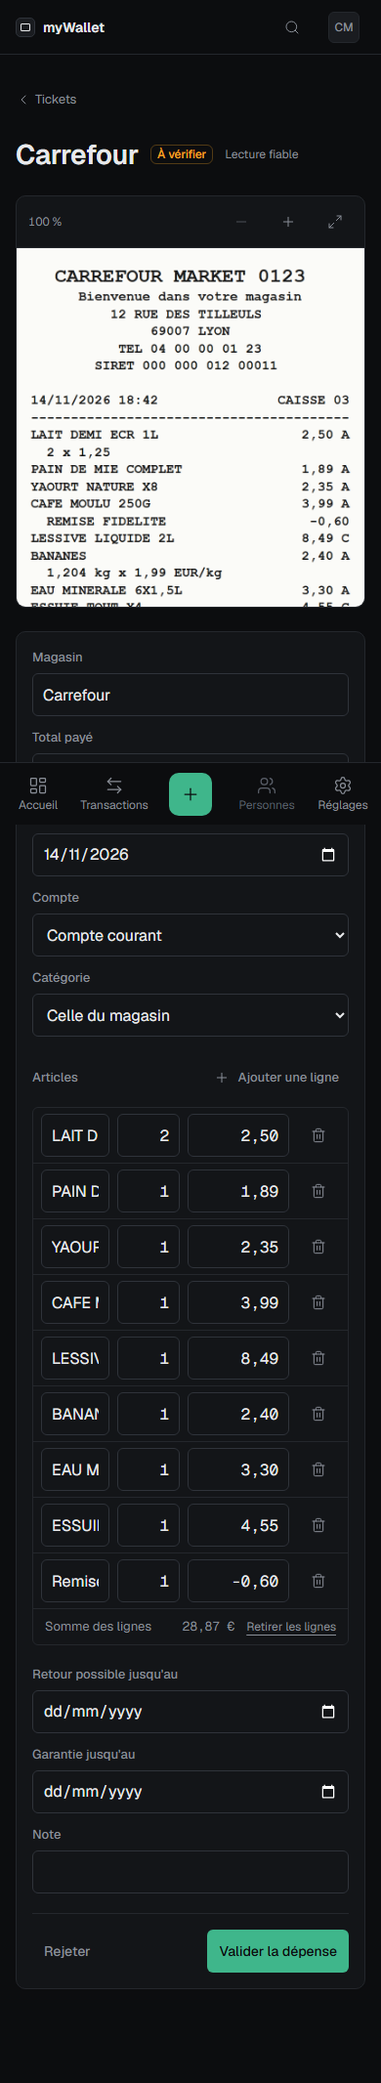
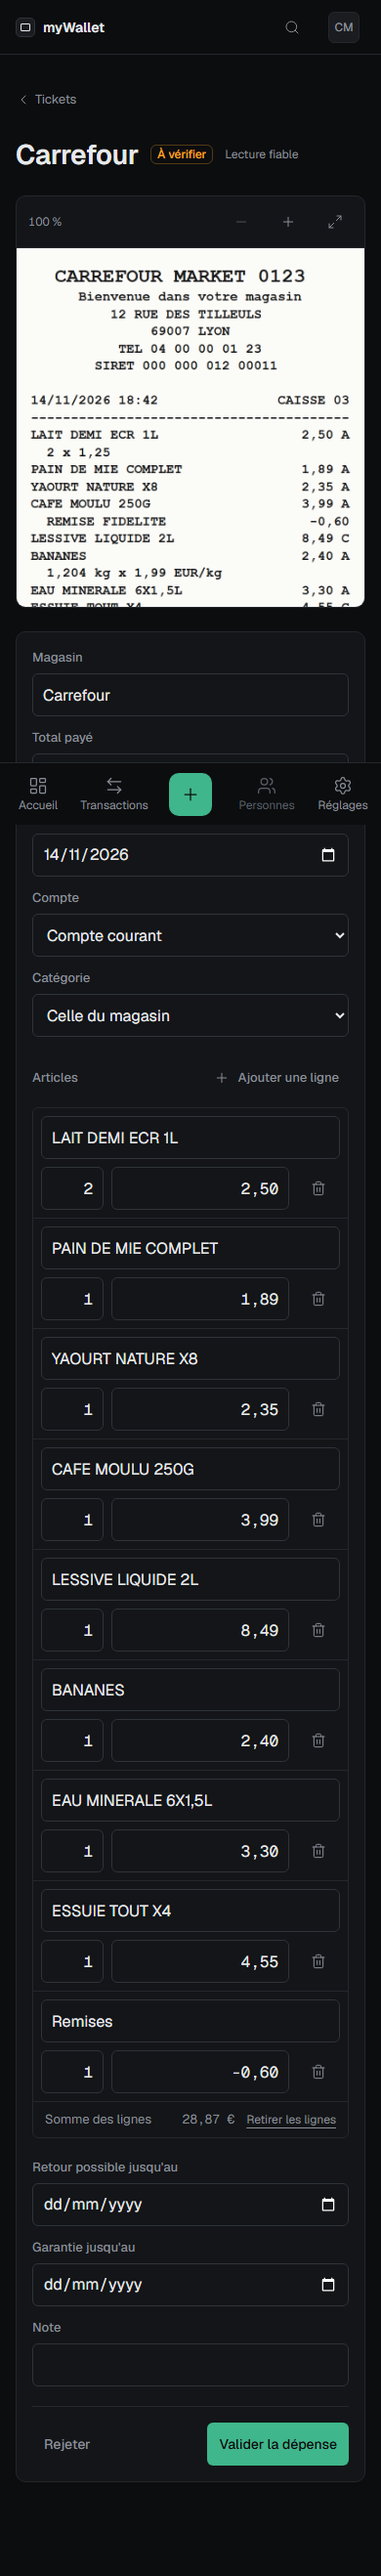
fix(ui): address ui-reviewer pass 2 and the mobile add-menu label clash
- settings: receipt reading card under accounts; reason for an unavailable
  option stays readable
- review: outlined Rejeter, ghost button to remove lines, title falls back to
  the upload date instead of the file name
- drop zone: single dashed border; truncated merchant names get a title
- mobile add menu labelled 'Ajouter un ticket ou une transaction' (it shadowed
  the 'Ajouter' buttons, caught by e2e)

diff --git a/src/app/(app)/reglages/page.tsx b/src/app/(app)/reglages/page.tsx
@@ -32,17 +32,23 @@ async function Settings() {
   ]);
   return (
     <div className="grid items-start gap-4 lg:grid-cols-[minmax(0,2fr)_minmax(0,3fr)]">
-      <AccountsManager
-        accounts={accounts.map((a) => ({
-          id: a.id,
-          name: a.name,
-          type: a.type,
-          institution: a.institution,
-          openingBalanceCents: a.openingBalanceCents,
-          balanceCents: a.balanceCents,
-          movementCount: a.movementCount,
-        }))}
-      />
+      <div className="flex flex-col gap-4">
+        <AccountsManager
+          accounts={accounts.map((a) => ({
+            id: a.id,
+            name: a.name,
+            type: a.type,
+            institution: a.institution,
+            openingBalanceCents: a.openingBalanceCents,
+            balanceCents: a.balanceCents,
+            movementCount: a.movementCount,
+          }))}
+        />
+        <ImportSettings
+          structurer={importSettings.structurer}
+          available={importSettings.available}
+        />
+      </div>
       <CategoriesManager
         categories={categories.map((c) => ({
           id: c.id,
@@ -52,7 +58,6 @@ async function Settings() {
           position: c.position,
         }))}
       />
-      <ImportSettings structurer={importSettings.structurer} available={importSettings.available} />
     </div>
   );
 }

diff --git a/src/components/settings/import-settings.tsx b/src/components/settings/import-settings.tsx
@@ -71,7 +71,7 @@ export function ImportSettings({
                 key={o.value}
                 className={cn(
                   "flex min-h-11 cursor-pointer gap-3 rounded-sm border border-border px-3 py-2 has-checked:border-accent",
-                  !enabled && "cursor-not-allowed opacity-50",
+                  !enabled && "cursor-not-allowed",
                 )}
               >
                 <input
@@ -81,10 +81,10 @@ export function ImportSettings({
                   checked={value === o.value}
                   disabled={!enabled}
                   onChange={() => setValue(o.value)}
-                  className="mt-1 accent-[var(--accent)]"
+                  className="mt-1 accent-[var(--accent)] disabled:opacity-50"
                 />
                 <span className="flex flex-col gap-0.5">
-                  <span className="text-base">{o.title}</span>
+                  <span className={cn("text-base", !enabled && "text-muted")}>{o.title}</span>
                   <span className="text-sm text-muted">
                     {o.text}
                     {!enabled && " Non configuré sur ce serveur."}

diff --git a/src/components/receipts/review-form.tsx b/src/components/receipts/review-form.tsx
@@ -375,13 +375,9 @@ export function ReviewForm({
               <span className="flex items-center gap-3">
                 <Amount cents={linesSum} className={mismatch ? "text-warning" : "text-muted"} />
                 {items.fields.length > 0 && (
-                  <button
-                    type="button"
-                    className="text-xs text-muted underline underline-offset-4 hover:text-text"
-                    onClick={() => items.replace([])}
-                  >
+                  <Button type="button" size="sm" variant="ghost" onClick={() => items.replace([])}>
                     Retirer les lignes
-                  </button>
+                  </Button>
                 )}
               </span>
             </div>
@@ -445,7 +441,7 @@ export function ReviewForm({
       <div className="flex flex-wrap items-center justify-between gap-2 border-t border-border pt-4">
         <Button
           type="button"
-          variant="ghost"
+          variant="outline"
           disabled={rejecting || isSubmitting}
           onClick={onReject}
         >

diff --git a/src/components/receipts/upload-panel.tsx b/src/components/receipts/upload-panel.tsx
@@ -103,7 +103,7 @@ export function UploadPanel() {
   }
 
   return (
-    <Card>
+    <Card className="border-dashed border-border-strong">
       <div
         onDragOver={(e) => {
           e.preventDefault();
@@ -112,8 +112,8 @@ export function UploadPanel() {
         onDragLeave={() => setDragging(false)}
         onDrop={onDrop}
         className={cn(
-          "m-3 flex flex-col items-center gap-3 rounded-sm border border-dashed border-border-strong px-4 py-8 text-center transition-colors duration-[var(--duration-fast)]",
-          dragging && "border-accent bg-accent-subtle",
+          "flex flex-col items-center gap-3 rounded-md px-4 py-10 text-center transition-colors duration-[var(--duration-fast)]",
+          dragging && "bg-accent-subtle",
         )}
       >
         <p className="text-base text-text">Déposez vos tickets ici</p>

diff --git a/src/components/receipts/receipt-list.tsx b/src/components/receipts/receipt-list.tsx
@@ -16,7 +16,10 @@ export function ReceiptList({ rows }: { rows: ReceiptListRow[] }) {
           >
             <ReceiptThumb id={r.id} hasThumbnail={r.hasThumbnail} />
             <span className="flex min-w-0 flex-1 flex-col">
-              <span className="truncate text-base text-text">
+              <span
+                className="truncate text-base text-text"
+                title={r.merchantName ?? r.filename ?? undefined}
+              >
                 {r.merchantName ?? r.filename ?? "Ticket"}
               </span>
               <span className="flex flex-wrap items-center gap-x-2 text-xs text-muted">

diff --git a/src/app/(app)/tickets/[id]/page.tsx b/src/app/(app)/tickets/[id]/page.tsx
@@ -41,10 +41,7 @@ async function Ticket({ params }: Pick<PageProps<"/tickets/[id]">, "params">) {
   if (!receipt) notFound();
   const today = toParisDateString(new Date());
 
-  const title =
-    receipt.extraction?.merchantName ??
-    receipt.filename ??
-    `Ticket du ${formatDateFr(receipt.createdAt)}`;
+  const title = receipt.extraction?.merchantName ?? `Ticket du ${formatDateFr(receipt.createdAt)}`;
   const reviewable = receipt.status === "to_review" || receipt.status === "manual";
   const reading = receipt.status === "uploaded" || receipt.status === "processing";
 

diff --git a/src/components/shell/mobile-tabbar.tsx b/src/components/shell/mobile-tabbar.tsx
@@ -60,7 +60,7 @@ export function MobileTabbarView({ pathname }: { pathname: string | null }) {
       <div className="flex flex-1 items-center justify-center">
         <DropdownMenu.Root>
           <DropdownMenu.Trigger
-            aria-label="Ajouter"
+            aria-label="Ajouter un ticket ou une transaction"
             className="flex size-11 items-center justify-center rounded-md bg-accent text-bg active:bg-accent/80"
           >
             <Plus className="size-5" />
